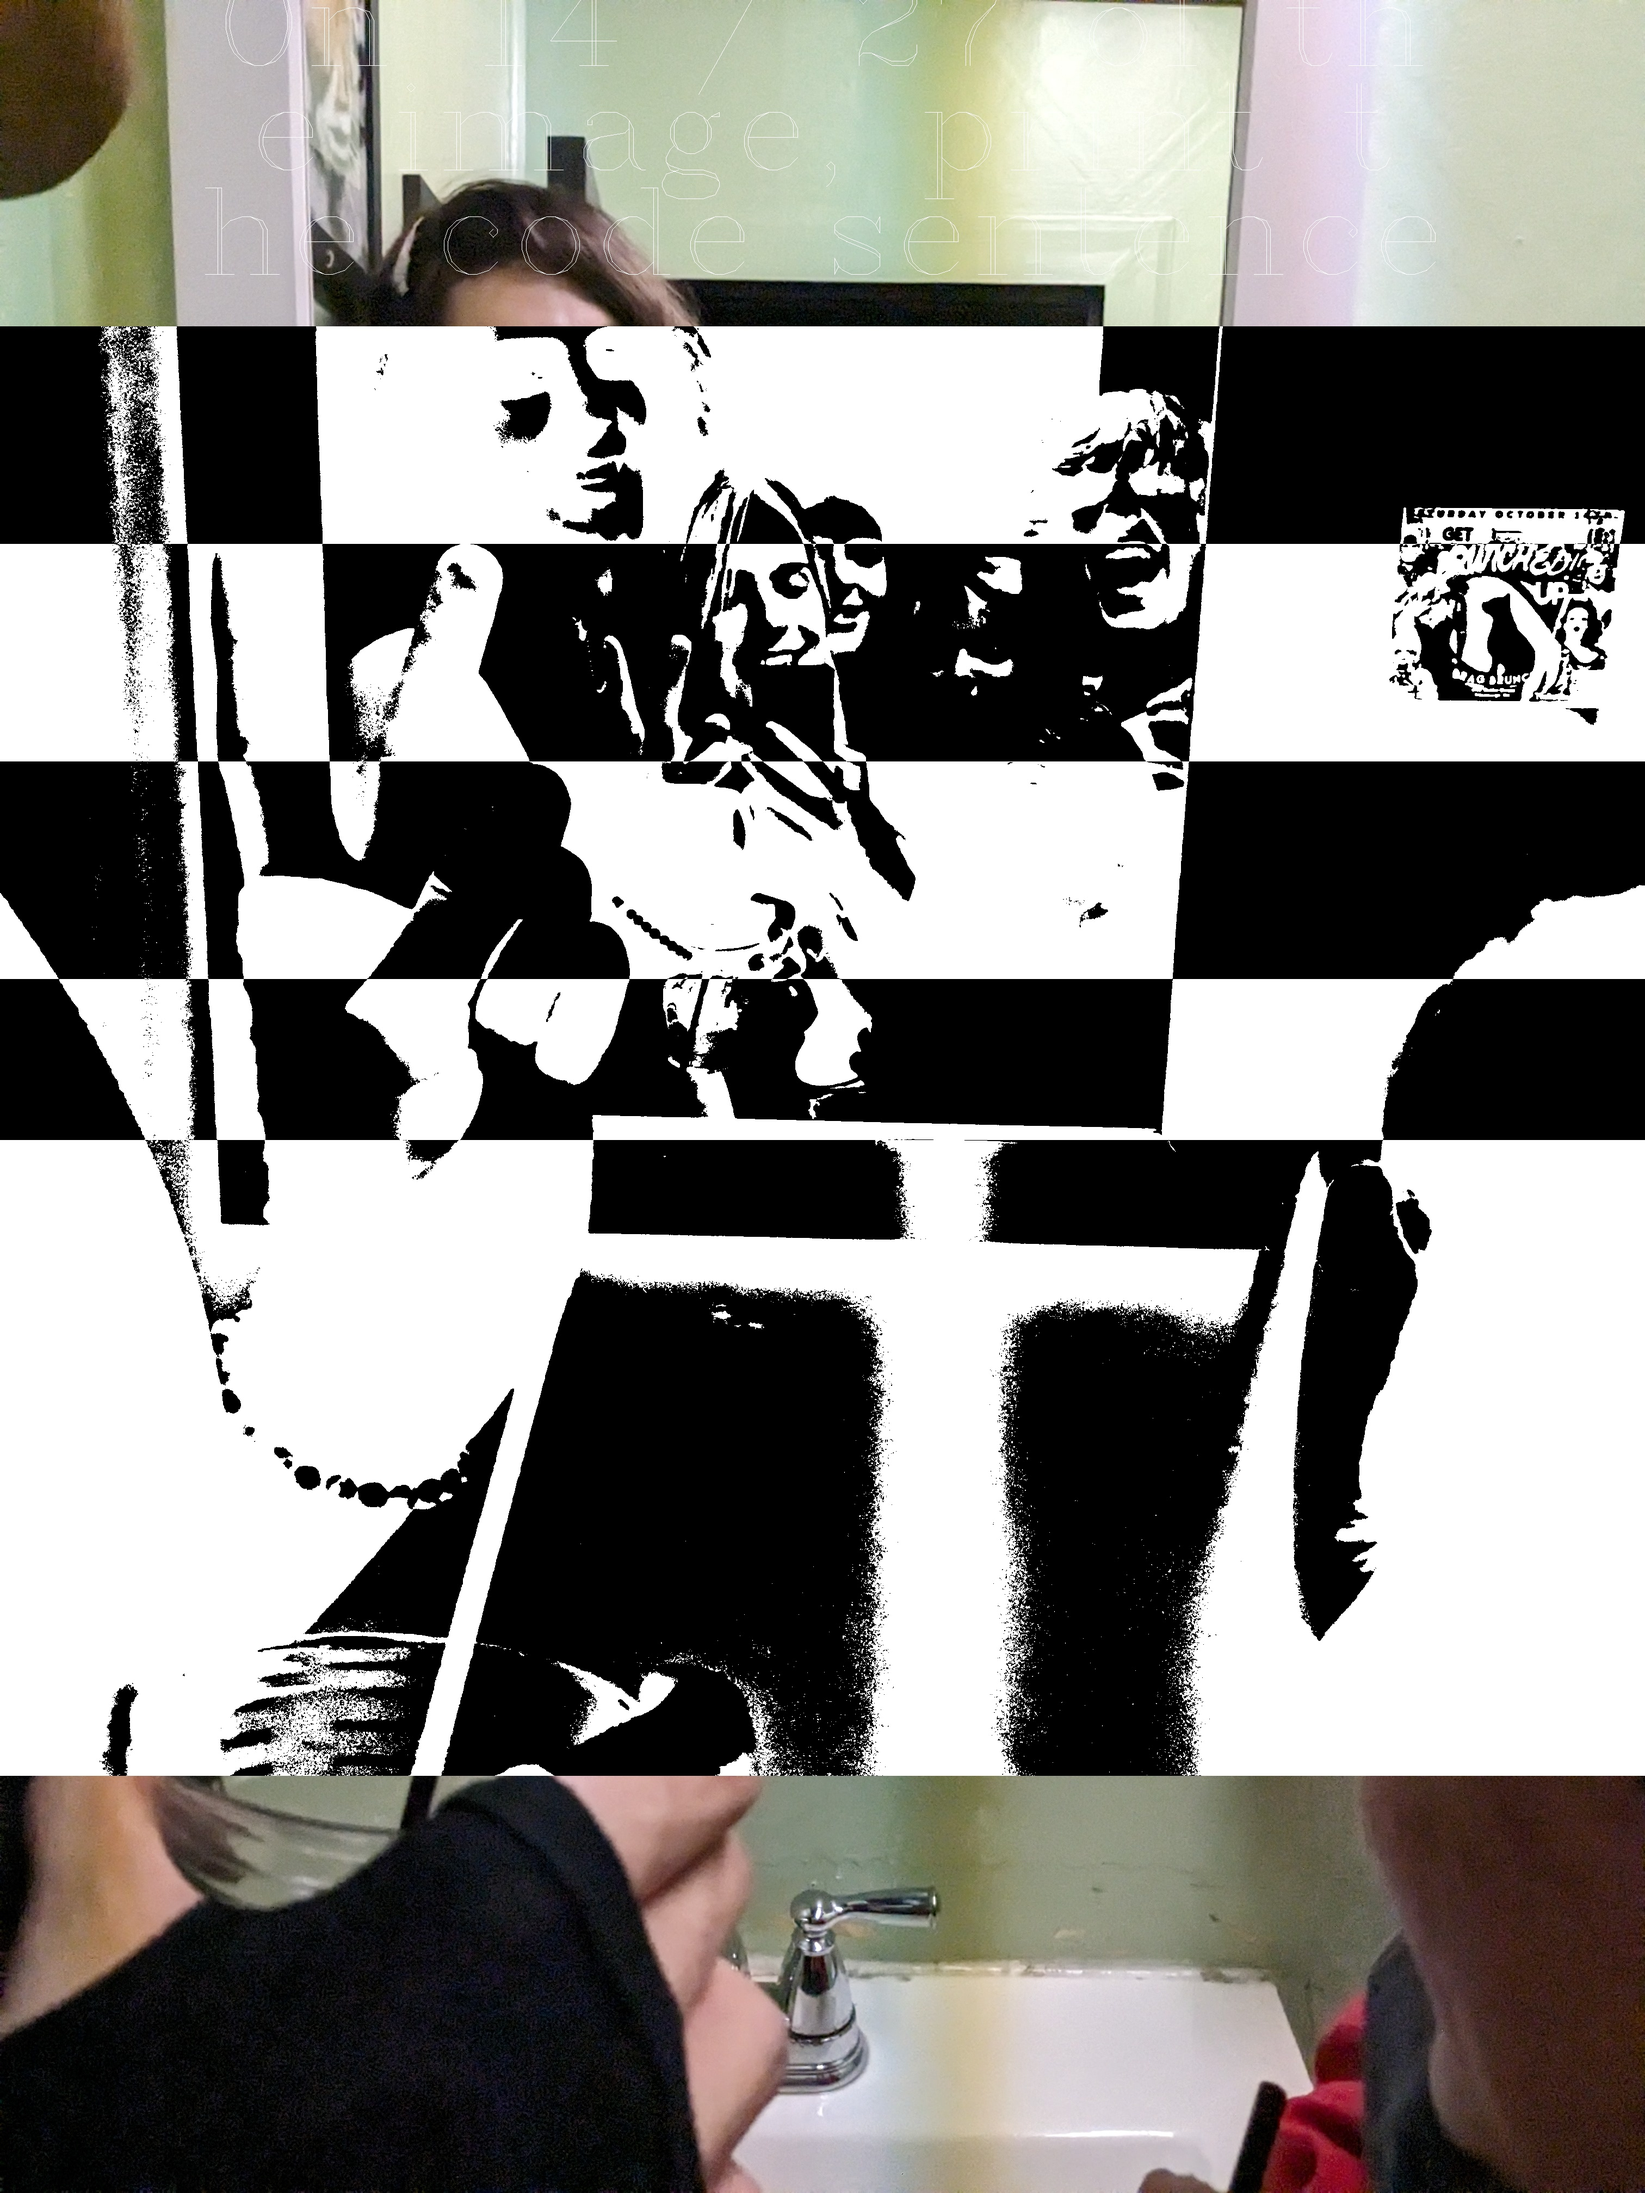
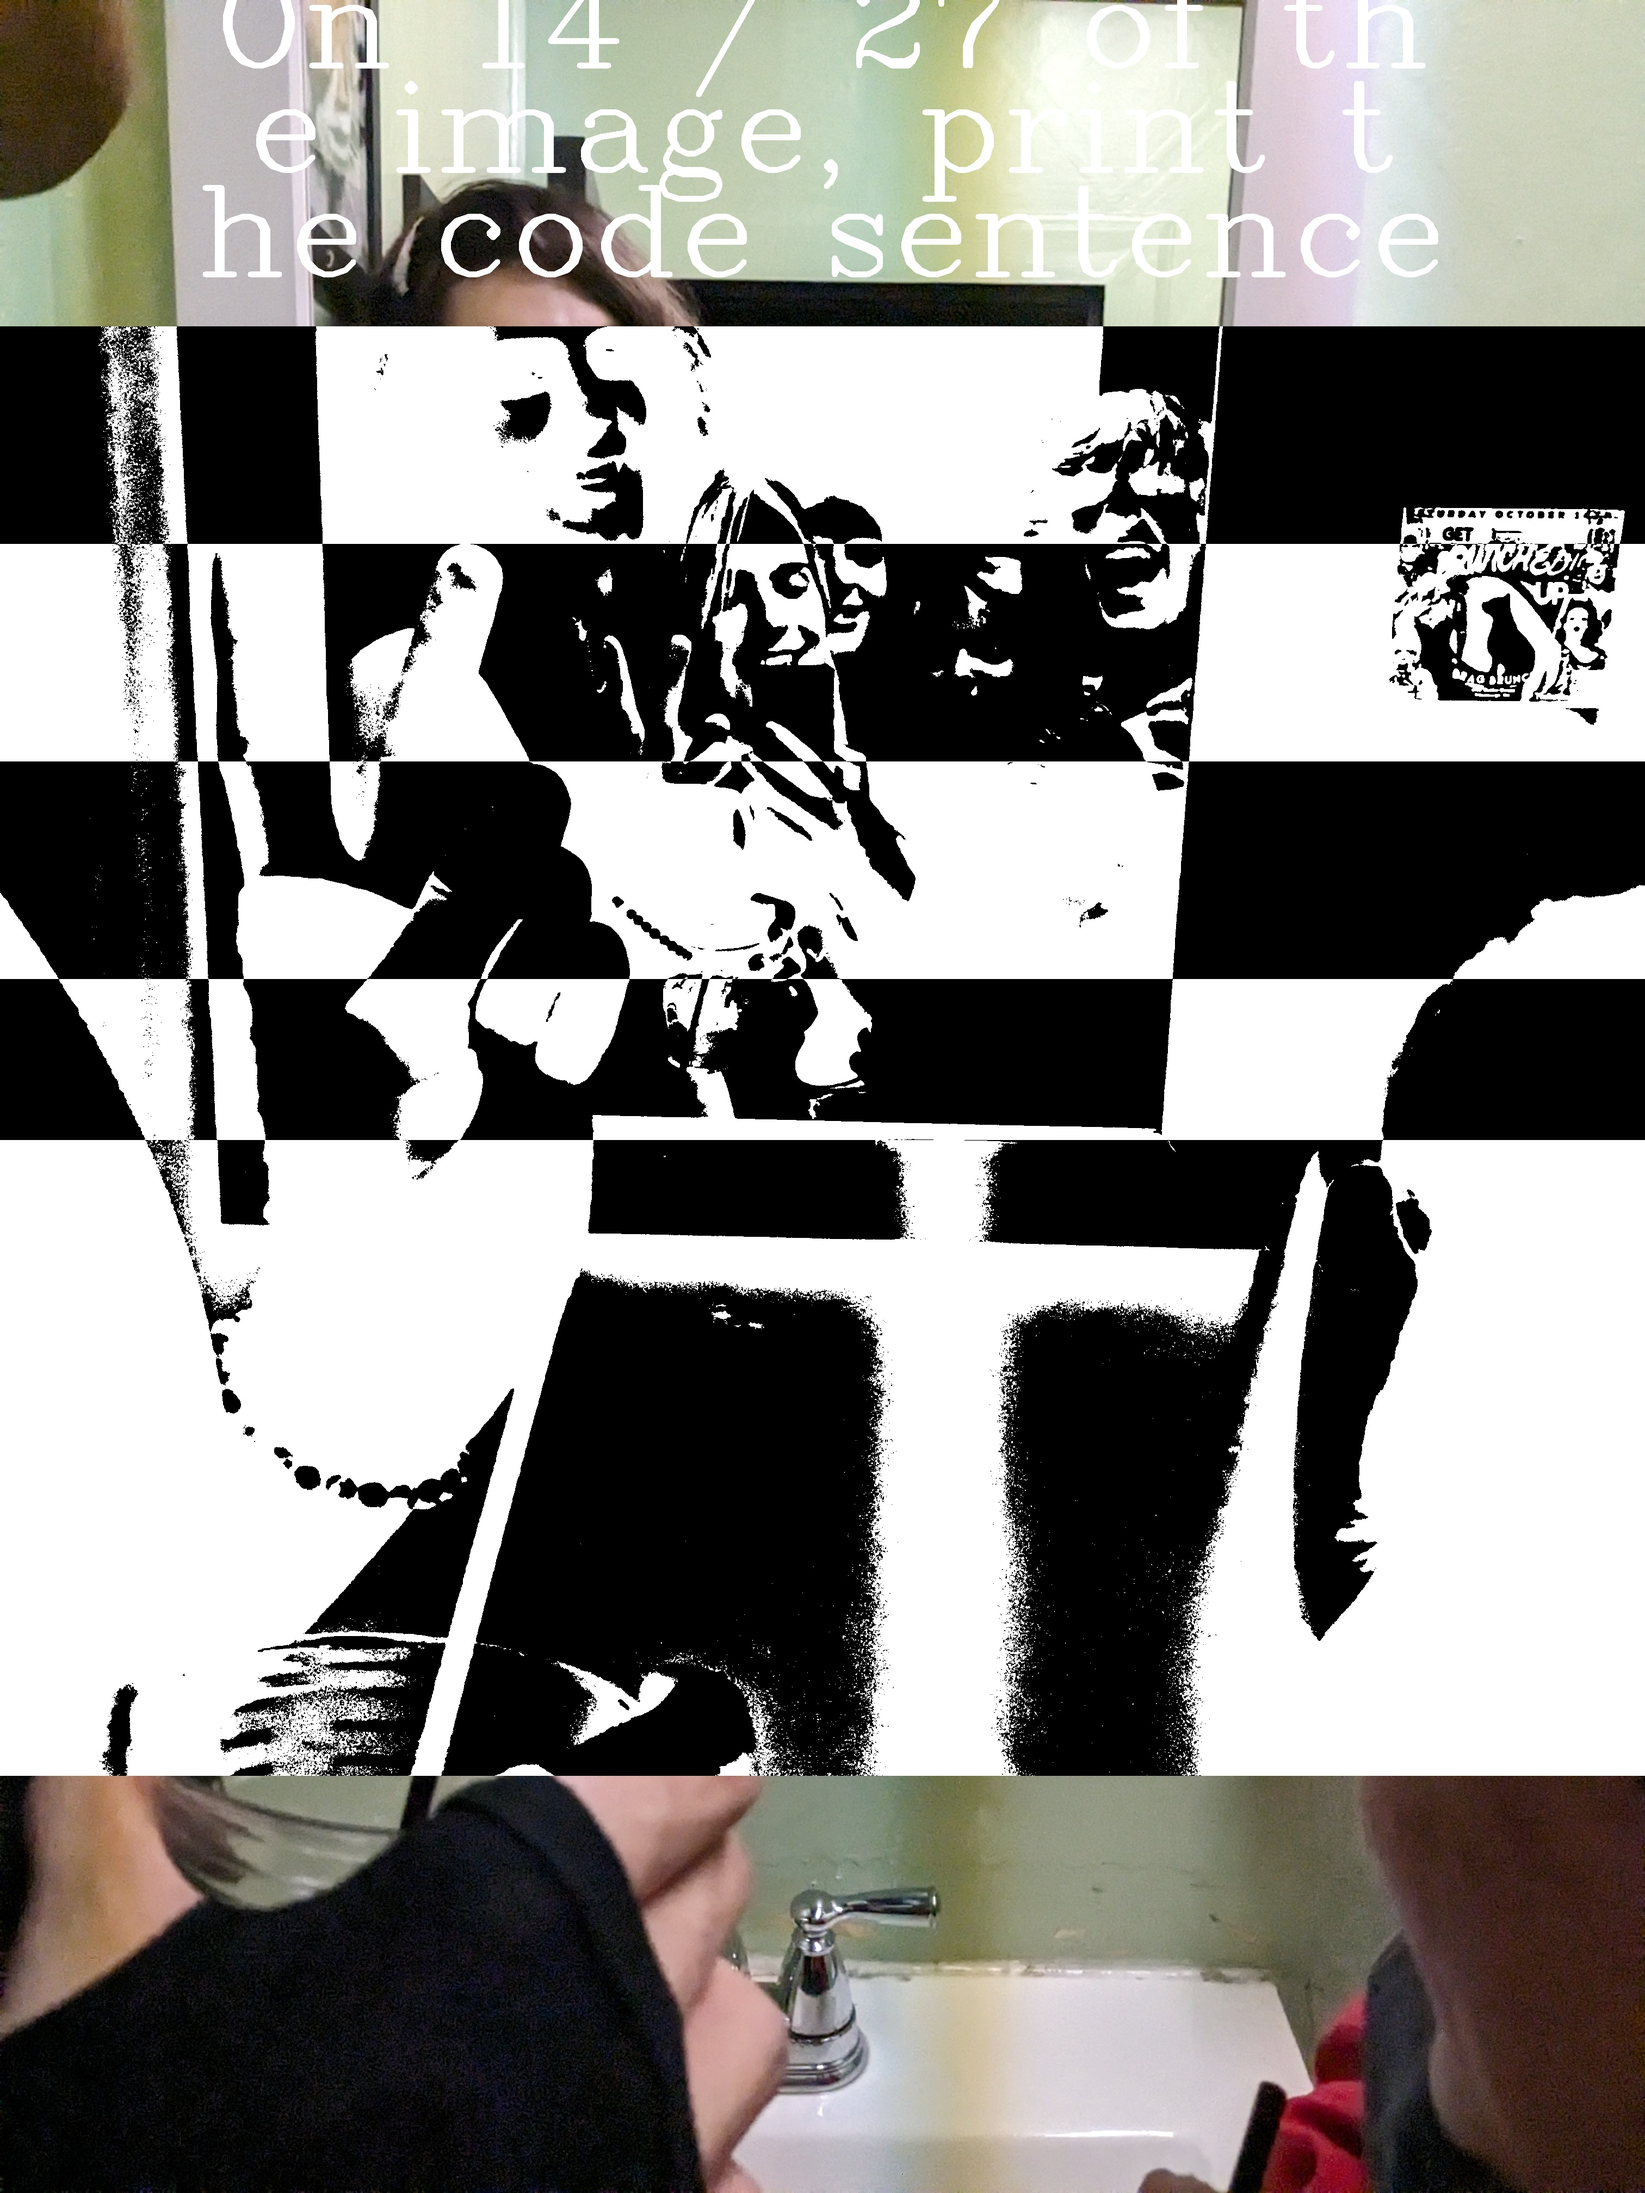
tweaking with parameters done:  Programs are in IS pdf now.

diff --git a/picturetopicture/manip.py b/picturetopicture/manip.py
@@ -63,7 +63,7 @@ def ThreeApplier(img, region, state_holder, properties, codes_deque):
     
     #prints all other codes remaining in the deque.
     for x in codes_deque:
-        subregion = cv2.putText(subregion, fsm.codeToString(x[0]), OffsetPicker(state_holder[0][2], x[0], text_properties[0], text_properties[2], width, x[1] + 1, 0), text_properties[0], text_properties[2], text_properties[1])
+        subregion = cv2.putText(subregion, fsm.codeToString(x[0]), OffsetPicker(state_holder[0][2], x[0], text_properties[0], text_properties[2], width, x[1] + 1, 0), text_properties[0], text_properties[2], text_properties[1], int(text_properties[2]))
 
     return ImageMerger(img, subregion, width, pixel_height, region[1])
 
@@ -102,7 +102,8 @@ def SentenceApplier(img, region, sentence, state_holder, properties):
     i = 0
     while len(lines_deque) > 0:
         current = lines_deque.popleft()
-        subregion = cv2.putText(subregion, current, OffsetPicker(state_holder[0][2], current, text_properties[0], text_properties[2], width, region[1] + 1, i * text_height + i * int(text_height * .2)), text_properties[0], text_properties[2], text_properties[1])
+        print(int(text_properties[2]))
+        subregion = cv2.putText(subregion, current, OffsetPicker(state_holder[0][2], current, text_properties[0], text_properties[2], width, region[1] + 1, i * text_height + i * int(text_height * .2) + int(0.01 * width)), text_properties[0], text_properties[2], text_properties[1], int(text_properties[2]))
         i += 1
 
     return ImageMerger(img, subregion, width, pixel_height, region[1])
@@ -127,7 +128,7 @@ def PrintApplier(img, region, state_holder, properties, codes_deque):
         char = chr(fsm.base3(x[0]) + 64)
         statement += char
 
-    subregion = cv2.putText(subregion, statement, OffsetPicker(state_holder[0][2], statement, text_properties[0], text_properties[2], width, 0, 100), text_properties[0], text_properties[2], text_properties[1])
+    subregion = cv2.putText(subregion, statement, OffsetPicker(state_holder[0][2], statement, text_properties[0], text_properties[2], width, 0, int(0.1 * width)), text_properties[0], text_properties[2], text_properties[1], int(text_properties[2]))
 
     return ImageMerger(img, subregion, width, pixel_height, region[1])
 
@@ -154,7 +155,7 @@ def PythonApplier(img, region, state_holder, properties, file):
 
 
     for x in lines:
-        subregion = cv2.putText(subregion, x, (0, int(lines.index(x) * text_height * 1.25)), cv2.FONT_HERSHEY_SIMPLEX, text_properties[2], text_properties[1])
+        subregion = cv2.putText(subregion, x, (0, int(lines.index(x) * text_height * 1.25)), cv2.FONT_HERSHEY_SIMPLEX, text_properties[2], text_properties[1], int(text_properties[2]))
 
     py.close()
 
@@ -185,10 +186,8 @@ def HexApplier(img, region, state_holder, properties, file):
 
     (text_width, text_height), _ = cv2.getTextSize(lines[0], text_properties[0], text_properties[2], 1)
 
-    print(lines[0])
-
     for x in lines:
-        subregion = cv2.putText(subregion, x, (0, int(lines.index(x) * text_height * 1.25)), cv2.FONT_HERSHEY_SIMPLEX, text_properties[2], text_properties[1])
+        subregion = cv2.putText(subregion, x, (0, int(lines.index(x) * text_height * 1.25)), cv2.FONT_HERSHEY_SIMPLEX, text_properties[2], text_properties[1], int(text_properties[2]))
 
     py.close()
 
@@ -212,6 +211,16 @@ def PixelSorter(img, region, sort_mode, lower_bound, upper_bound, degree):
     
     return ImageMerger(img, subregion, width, pixel_height, region[1])
 
+
+def Skip(img, region):
+    height, width, channels = img.shape
+
+    #the percentage of the image to have text added on top, rounded to the nearest pixel
+    region_code = fsm.RegionCodeGetter(region)
+    pixel_height = fsm.FractionToRegion(height, region_code)
+    subregion = img
+    
+    return ImageMerger(img, subregion, width, pixel_height, region[1])
 
 
 #returns font, font_size, and color in a tuple

diff --git a/picturetopicture/picturetopicture.py b/picturetopicture/picturetopicture.py
@@ -93,21 +93,24 @@ def assembleCodesDeque(left_list, total_list, right_list, threshold_left, thresh
     return codes_deque
 
 def main():
-    default_img = "barbiecrop.png"
+    file_path = "barbiecrop.png"
     if __name__ == "__main__":
         if(len(sys.argv) < 2):
             print("No image specified.  Using default image file.")
-            img = cv2.imread(default_img, cv2.IMREAD_ANYCOLOR)
+            img = cv2.imread(file_path, cv2.IMREAD_ANYCOLOR)
         elif(len(sys.argv) == 2):
             img = cv2.imread(sys.argv[1], cv2.IMREAD_ANYCOLOR)
+
+            file_path = sys.argv[1]
         else:
             print("Too many arguments.  Using default image file.")
-            img = cv2.imread(default_img, cv2.IMREAD_ANYCOLOR)
+            img = cv2.imread(file_path, cv2.IMREAD_ANYCOLOR)
+
 
     height, width, channels = img.shape
 
     #performs canny edge detection on image and displays result 
-    edges = cv2.Canny(img, threshold1 = 100, threshold2 = 200)
+    edges = cv2.Canny(img, threshold1 = 200, threshold2 = 250)
     cv2.imshow("canny", edges)
     cv2.waitKey(0)
 
@@ -130,7 +133,7 @@ def main():
     codes_deque = assembleCodesDeque(left_values, edgepercodel, right_values, width * 0.1, (width * codel_height) / 100, width * 0.1)
 
     print(codes_deque)
-    final_img = fsmRunner(codes_deque, img, sys.argv[1])
+    final_img = fsmRunner(codes_deque, img, file_path)
     cv2.imshow("Final Image", final_img)
     cv2.waitKey(0)
     cv2.imwrite("output.jpg", final_img)

diff --git a/picturetopicture/fsm.py b/picturetopicture/fsm.py
@@ -97,7 +97,7 @@ def fsmRunner(codes_deque, img, img_name):
                 state = 0
                 print(code_sentence)
             case 3:
-                code_sentence += ("print a snipet of the python code.\n")
+                code_sentence += ("print a snipet of the compiler code.\n")
 
                 file = "manip.py"
                 if(state_holder[0][2] == 0):
@@ -227,6 +227,7 @@ def fsmRunner(codes_deque, img, img_name):
 
             case -1:
                 code_sentence += ("skip section.\n")
+                merge_img = manip.Skip(img, region)
                 state = 0
                 print(code_sentence)
 

diff --git a/pixelsorting/pixelsorting.py b/pixelsorting/pixelsorting.py
@@ -29,7 +29,7 @@ def main():
 
     im_pil = Image.fromarray(img)
 
-    im_pil = pixelsort(im_pil, None, None, 0, 20, "minimum", "threshold", 0.25, 0.75, 45)
+    im_pil = pixelsort(im_pil, None, None, 0, 20, "lightness", "threshold", 0, .9, 0)
     im_np = np.asarray(im_pil)
     
 

diff --git a/cannyedgedetection/cannyedge.py b/cannyedgedetection/cannyedge.py
@@ -134,6 +134,7 @@ cv2.waitKey(0)
 edges = cv2.Canny(resize_img, threshold1 = 100, threshold2 = 200)
 cv2.imshow("canny", edges)
 cv2.waitKey(0)
+cv2.imwrite("output.jpg", edges)
 
 #cuts image into codels
 i = 0
